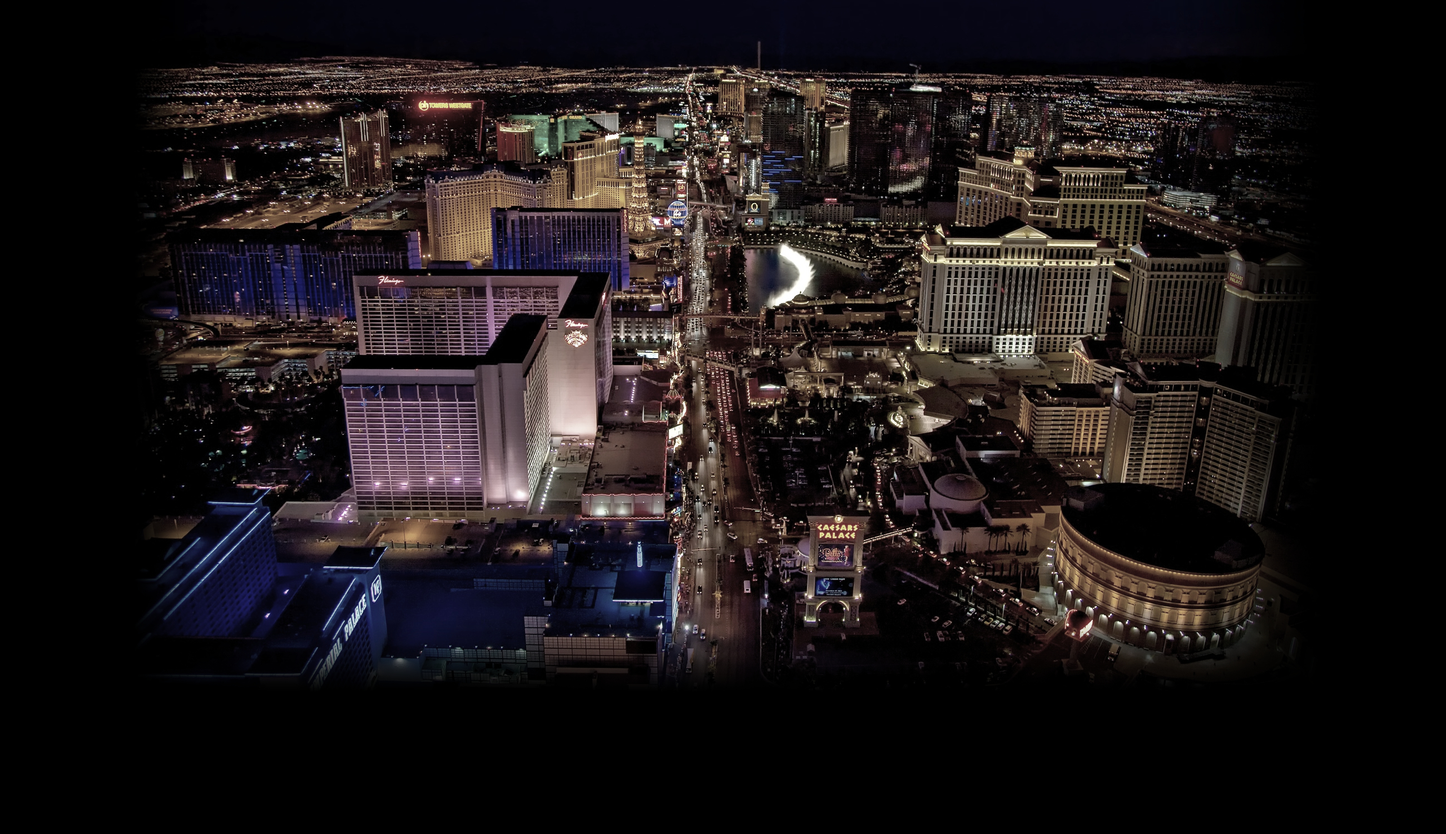
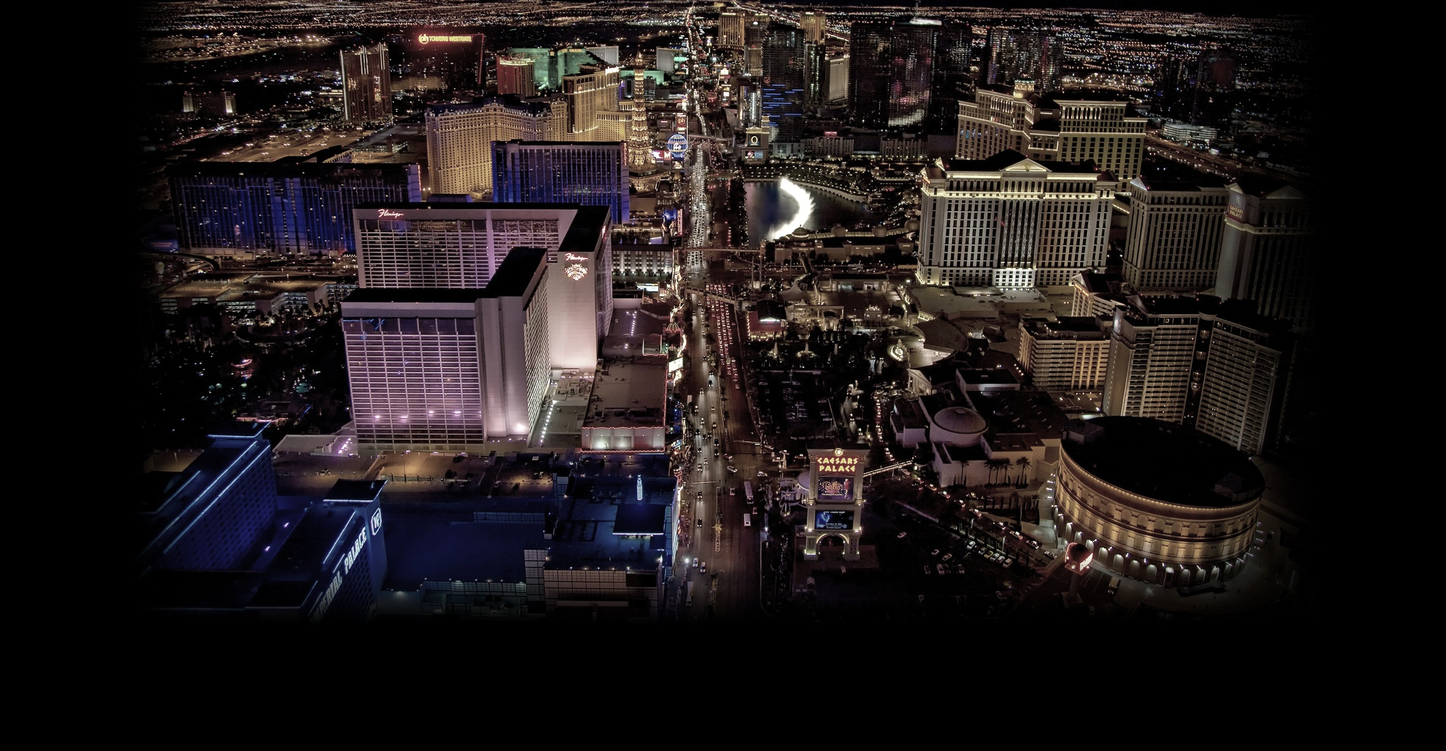
login sizing fix
-bg cleanup
-title height adjust

diff --git a/public/stylesheets/login.css b/public/stylesheets/login.css
@@ -8,7 +8,7 @@
   body{
   background-image: url(../assets/login.jpg);
   background-repeat: no-repeat;
-  background-position:center;
+  background-position:top;
   background-color: black;
   text-decoration: none;
   }
@@ -21,13 +21,12 @@
   .wrapper {
     text-align: center;
   }
-  .wrapper {
-    text-align: center;
-    
+  .top_padding {
+    height:20vh;
+    width:100%;
   }
   .title{
-    padding: 100px 0 50px 0;
-    font-size: 34px;
+    font-size: 32px;
   }
   h1, h2 {
     color:white;
@@ -75,7 +74,6 @@
     padding: 16px 20px;
     border: none;
     cursor: pointer;
-    margin-top:10px;
     -moz-border-radius: 10px;
     -webkit-border-radius: 10px;
     border-radius: 10px;
